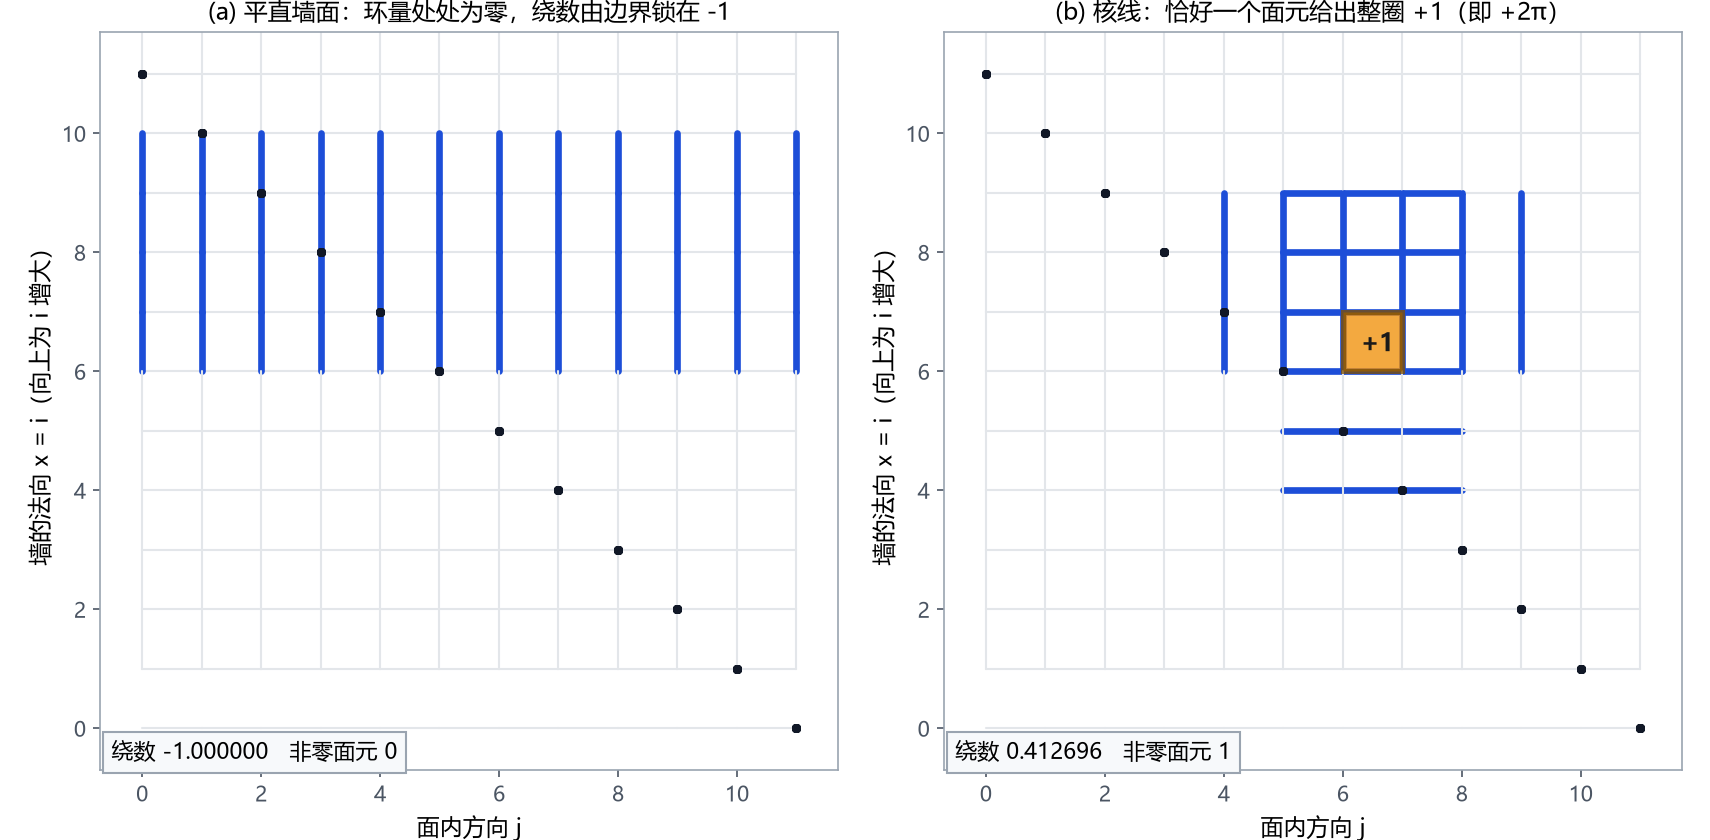
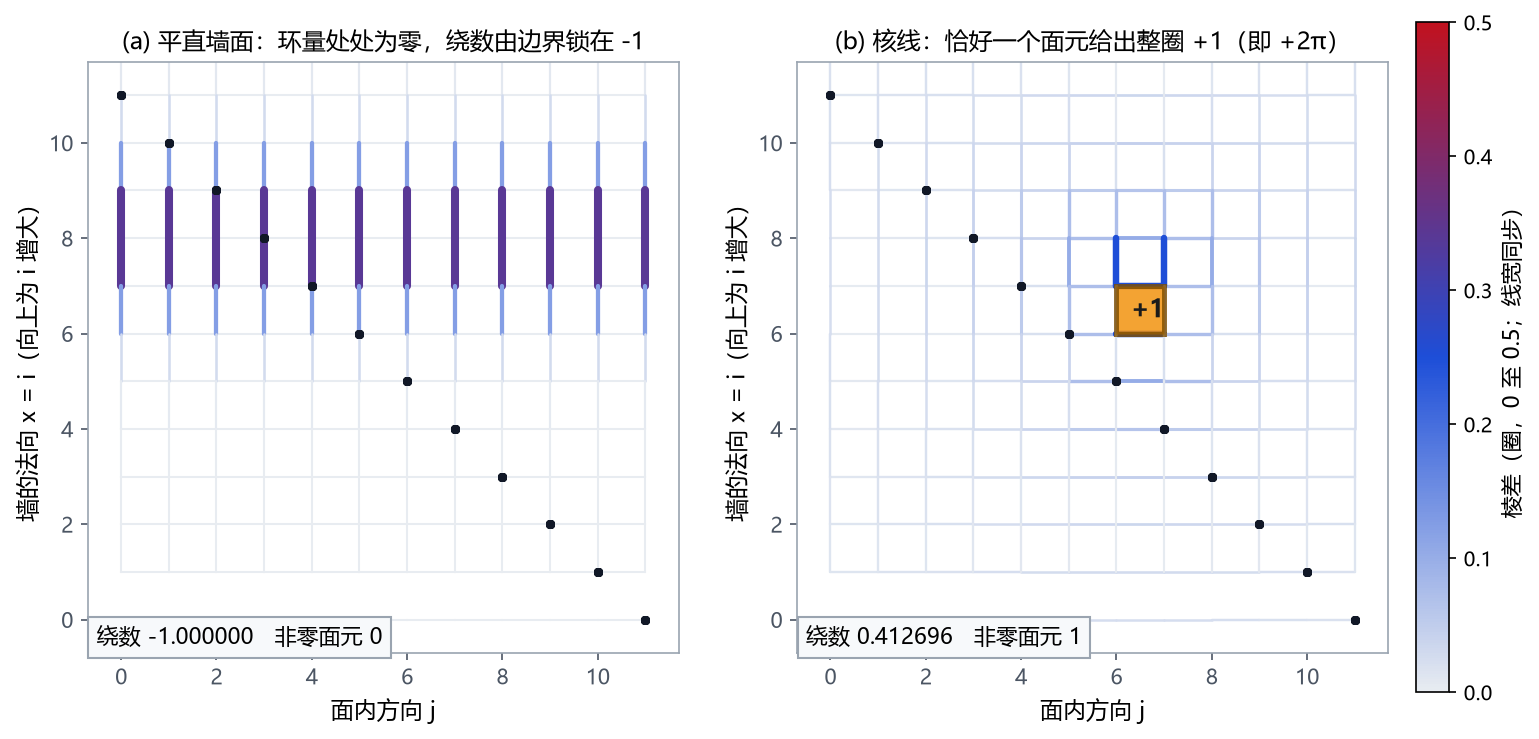
绘图口径改连续色阶（按作者意见）：棱差 0 至 0.5 圈作浅灰到深蓝到猩红的三段插值，线宽同步 1.0 至 5.2，阈值硬边取消；HTML 加色阶图例并把三维面板与说明改为蓝线，论文两幅图重出并加色标，图 1、图 2 图注改写以说明连续色阶

diff --git a/可视化/台阶面在晶格上：三维元相子缺陷的晶格可视化.html b/可视化/台阶面在晶格上：三维元相子缺陷的晶格可视化.html
@@ -42,7 +42,7 @@
   <canvas id="c3d" width="600" height="560"></canvas>
 </div>
 <p class="legend">
-左：二维横截面，横轴为面内方向 <code>j</code>，纵轴为墙的法向 <code>x = i</code>（向上为 i 增大）。琥珀色键是观测口径下的强棱差；只有切到描述口径，切割线才会显示成一层红色跳变键。橙色方格是环量非零的面元，虚线只在描述口径下画。
+左：二维横截面，横轴为面内方向 <code>j</code>，纵轴为墙的法向 <code>x = i</code>（向上为 i 增大）。键用连续色阶：颜色越深棱差越大（0 至 0.5 圈），深度与线宽同步；切到描述口径后，切割线那一列会显形为最深色。橙色方格是环量非零的面元，虚线只在描述口径下画。
 右：三维等距投影（6×6×6 抽样），横轴为 <code>k</code>（向右上），纵轴为 <code>j</code>（向上），斜轴为 <code>i</code>（向里）。红色键是横穿台阶面的那一层键（沿 <code>i</code> 方向）；核档下橙线是穿过核的核线（沿 <code>k</code> 方向的一条线，不是一张面）。
 </p>
 
@@ -128,16 +128,34 @@ function draw2(v, o, rawDesc) {
     g2.setLineDash([]);
     g2.fillStyle = "#ff9a9a"; g2.font = "12px Microsoft YaHei, sans-serif";
     g2.fillText("虚线 = 切割线（只在描述口径可见）", pad, cv2.height - 10);
+    drawScaleLegend();
   } else {
     g2.fillStyle = "#8fa3b8"; g2.font = "12px Microsoft YaHei, sans-serif";
-    g2.fillText("观测口径：无跳变键，环量只在核档非零", pad, cv2.height - 10);
+    g2.fillText("观测口径 · 连续色阶：颜色越深棱差越大，环量只在核档非零", pad, cv2.height - 10);
+    drawScaleLegend();
   }
 }
+function rampColor(t) {
+  var c1 = [232, 236, 241], c2 = [29, 78, 216], c3 = [193, 18, 31], o = [], k;
+  t = Math.max(0, Math.min(1, t));
+  for (k = 0; k < 3; k++) o[k] = t < 0.5 ? c1[k] + (c2[k] - c1[k]) * (t / 0.5) : c2[k] + (c3[k] - c2[k]) * ((t - 0.5) / 0.5);
+  return "rgb(" + Math.round(o[0]) + "," + Math.round(o[1]) + "," + Math.round(o[2]) + ")";
+}
 function paint(x1, y1, x2, y2, d) {
-  var a = Math.abs(d);
-  g2.strokeStyle = a > 0.4 ? "#ff6b6b" : (a > 0.05 ? "#c9a227" : "#39434d");
-  g2.lineWidth = a > 0.4 ? 4.2 : (a > 0.05 ? 2.4 : 1.2);
+  var t = Math.min(1, Math.abs(d) / 0.5);
+  g2.strokeStyle = rampColor(t);
+  g2.lineWidth = 1.0 + 4.2 * t;
   g2.beginPath(); g2.moveTo(x1, y1); g2.lineTo(x2, y2); g2.stroke();
+}
+function drawScaleLegend() {
+  var lx = 44, ly = cv2.height - 52, lw2 = 200, lh = 11, q;
+  for (q = 0; q <= lw2; q++) { g2.fillStyle = rampColor(q / lw2); g2.fillRect(lx + q, ly, 1.4, lh); }
+  g2.strokeStyle = "#5b6673"; g2.lineWidth = 1; g2.strokeRect(lx, ly, lw2, lh);
+  g2.fillStyle = "#8fa3b8"; g2.font = "11px Microsoft YaHei, sans-serif";
+  g2.fillText("0", lx - 2, ly + lh + 13);
+  g2.fillText("0.25 圈", lx + lw2 / 2 - 20, ly + lh + 13);
+  g2.fillText("0.5 圈", lx + lw2 - 30, ly + lh + 13);
+  g2.fillText("棱差（连续色阶，越深越大）", lx + lw2 + 12, ly + lh - 1);
 }
 function draw3(mode, x0) {
   var M = 6, sc = 30, ox = 200, oy = 470, i, j, k;
@@ -165,11 +183,11 @@ function draw3(mode, x0) {
       var ii = iw + w;
       if (ii + 1 > M - 1) continue;
       var a2 = P(ii, j, k), b2 = P(ii + 1, j, k);
-      g3.strokeStyle = "rgba(255,107,107,0.75)"; g3.lineWidth = 2.6;
+      g3.strokeStyle = "rgba(29,78,216,0.9)"; g3.lineWidth = 3.2;
       g3.beginPath(); g3.moveTo(a2[0], a2[1]); g3.lineTo(b2[0], b2[1]); g3.stroke();
     }
     g3.fillStyle = "#ffd479";
-    g3.fillText("红色键 = 横穿台阶面的那一层键（沿 i 方向）", 18, 24);
+    g3.fillText("蓝线 = 横穿台阶面的那一层键（沿 i 方向）", 18, 24);
   }
   g3.fillStyle = "#8fa3b8";
   g3.fillText("i 向里、j 向上、k 向右上；x 两端为边界，绕数由边界数据固定", 18, cv3.height - 12);

diff --git a/台阶面的拓扑：三维元相子缺陷的结构、保护与写入节拍.md b/台阶面的拓扑：三维元相子缺陷的结构、保护与写入节拍.md
@@ -73,7 +73,7 @@ $$\Omega_p = \vartheta_1 + \vartheta_2 - \vartheta_3 - \vartheta_4。$$
 
 由此得一条判据级的表述：荷住在由棱差构成的关系层上，它按面元计数、按同调类分类，三维中不存在承载它的局域对象。第 281 条把这一条登记为口径更正，并撤回「自由弦端不可存在」的论证。
 
-![图 1：二维横截面上台阶面的两种形态。(a) 平直墙面：深蓝键是台阶面所在的那一层键（观测口径下每键约 $0.3$，即半个台阶），浅灰细键是近零棱差，整圈跳变只在描述口径下显形为猩红键；全场环量为零，沿横列累加棱差给绕数 $-1.000000$（由边界锁住）。(b) 核线（环的横截面）：恰好一个面元被金橙填充并标 $+1$，即 $+2\pi$；其余面元为零。参数取 $K = 0.001$、格点 $12\times12$，与 `可视化/台阶面在晶格上：三维元相子缺陷的晶格可视化.html` 同一模型。](images/wall_lattice_2d.png)
+![图 1：二维横截面上台阶面的两种形态。(a) 平直墙面：键用连续色阶，$\vert$棱差$\vert$ 从 $0$ 到 $0.5$ 圈由浅灰经深蓝到猩红，线宽同步，故台阶面所在的那一层键呈深蓝；全场环量为零，沿横列累加棱差给绕数 $-1.000000$（由边界锁住）。(b) 核线（环的横截面）：色阶下紧邻核的键最深（每键 $0.25$ 圈），恰好一个面元被金橙填充并标 $+1$，即 $+2\pi$；其余面元为零。色标见图右侧。参数取 $K = 0.001$、格点 $12\times12$，与 `可视化/台阶面在晶格上：三维元相子缺陷的晶格可视化.html` 同一模型。](images/wall_lattice_2d.png)
 
 ## 4 台阶面的解析解与张力
 
@@ -123,7 +123,7 @@ $$\Delta = v(N_x-1) - v(0) = -1。$$
 
 保护性的内容因此可以写成一句：面可以挪，荷不能动。三维轮的读数比第 279 条的一维版更严，因为它补上了 $\Delta = 0$ 对照的严格归零。
 
-![图 2：三维等距投影上台阶面是什么。(a) 平直台阶面：红色键是横穿台阶面的那一层键（沿 $i$ 方向），$x$ 两端为边界，绕数由边界数据固定。(b) 墙面折一步：折步属光滑形变，各面元环量仍为零，位置简并保持。抽样 $6\times6\times6$，模型同图 1。](images/wall_lattice_3d.png)
+![图 2：三维等距投影上台阶面是什么。(a) 平直台阶面：蓝线是横穿台阶面的那一层键（沿 $i$ 方向，取自色阶中段），$x$ 两端为边界，绕数由边界数据固定。(b) 墙面折一步：折步属光滑形变，各面元环量仍为零，位置简并保持。抽样 $6\times6\times6$，模型同图 1。](images/wall_lattice_3d.png)
 
 ## 7 面积律与系数身份
 
